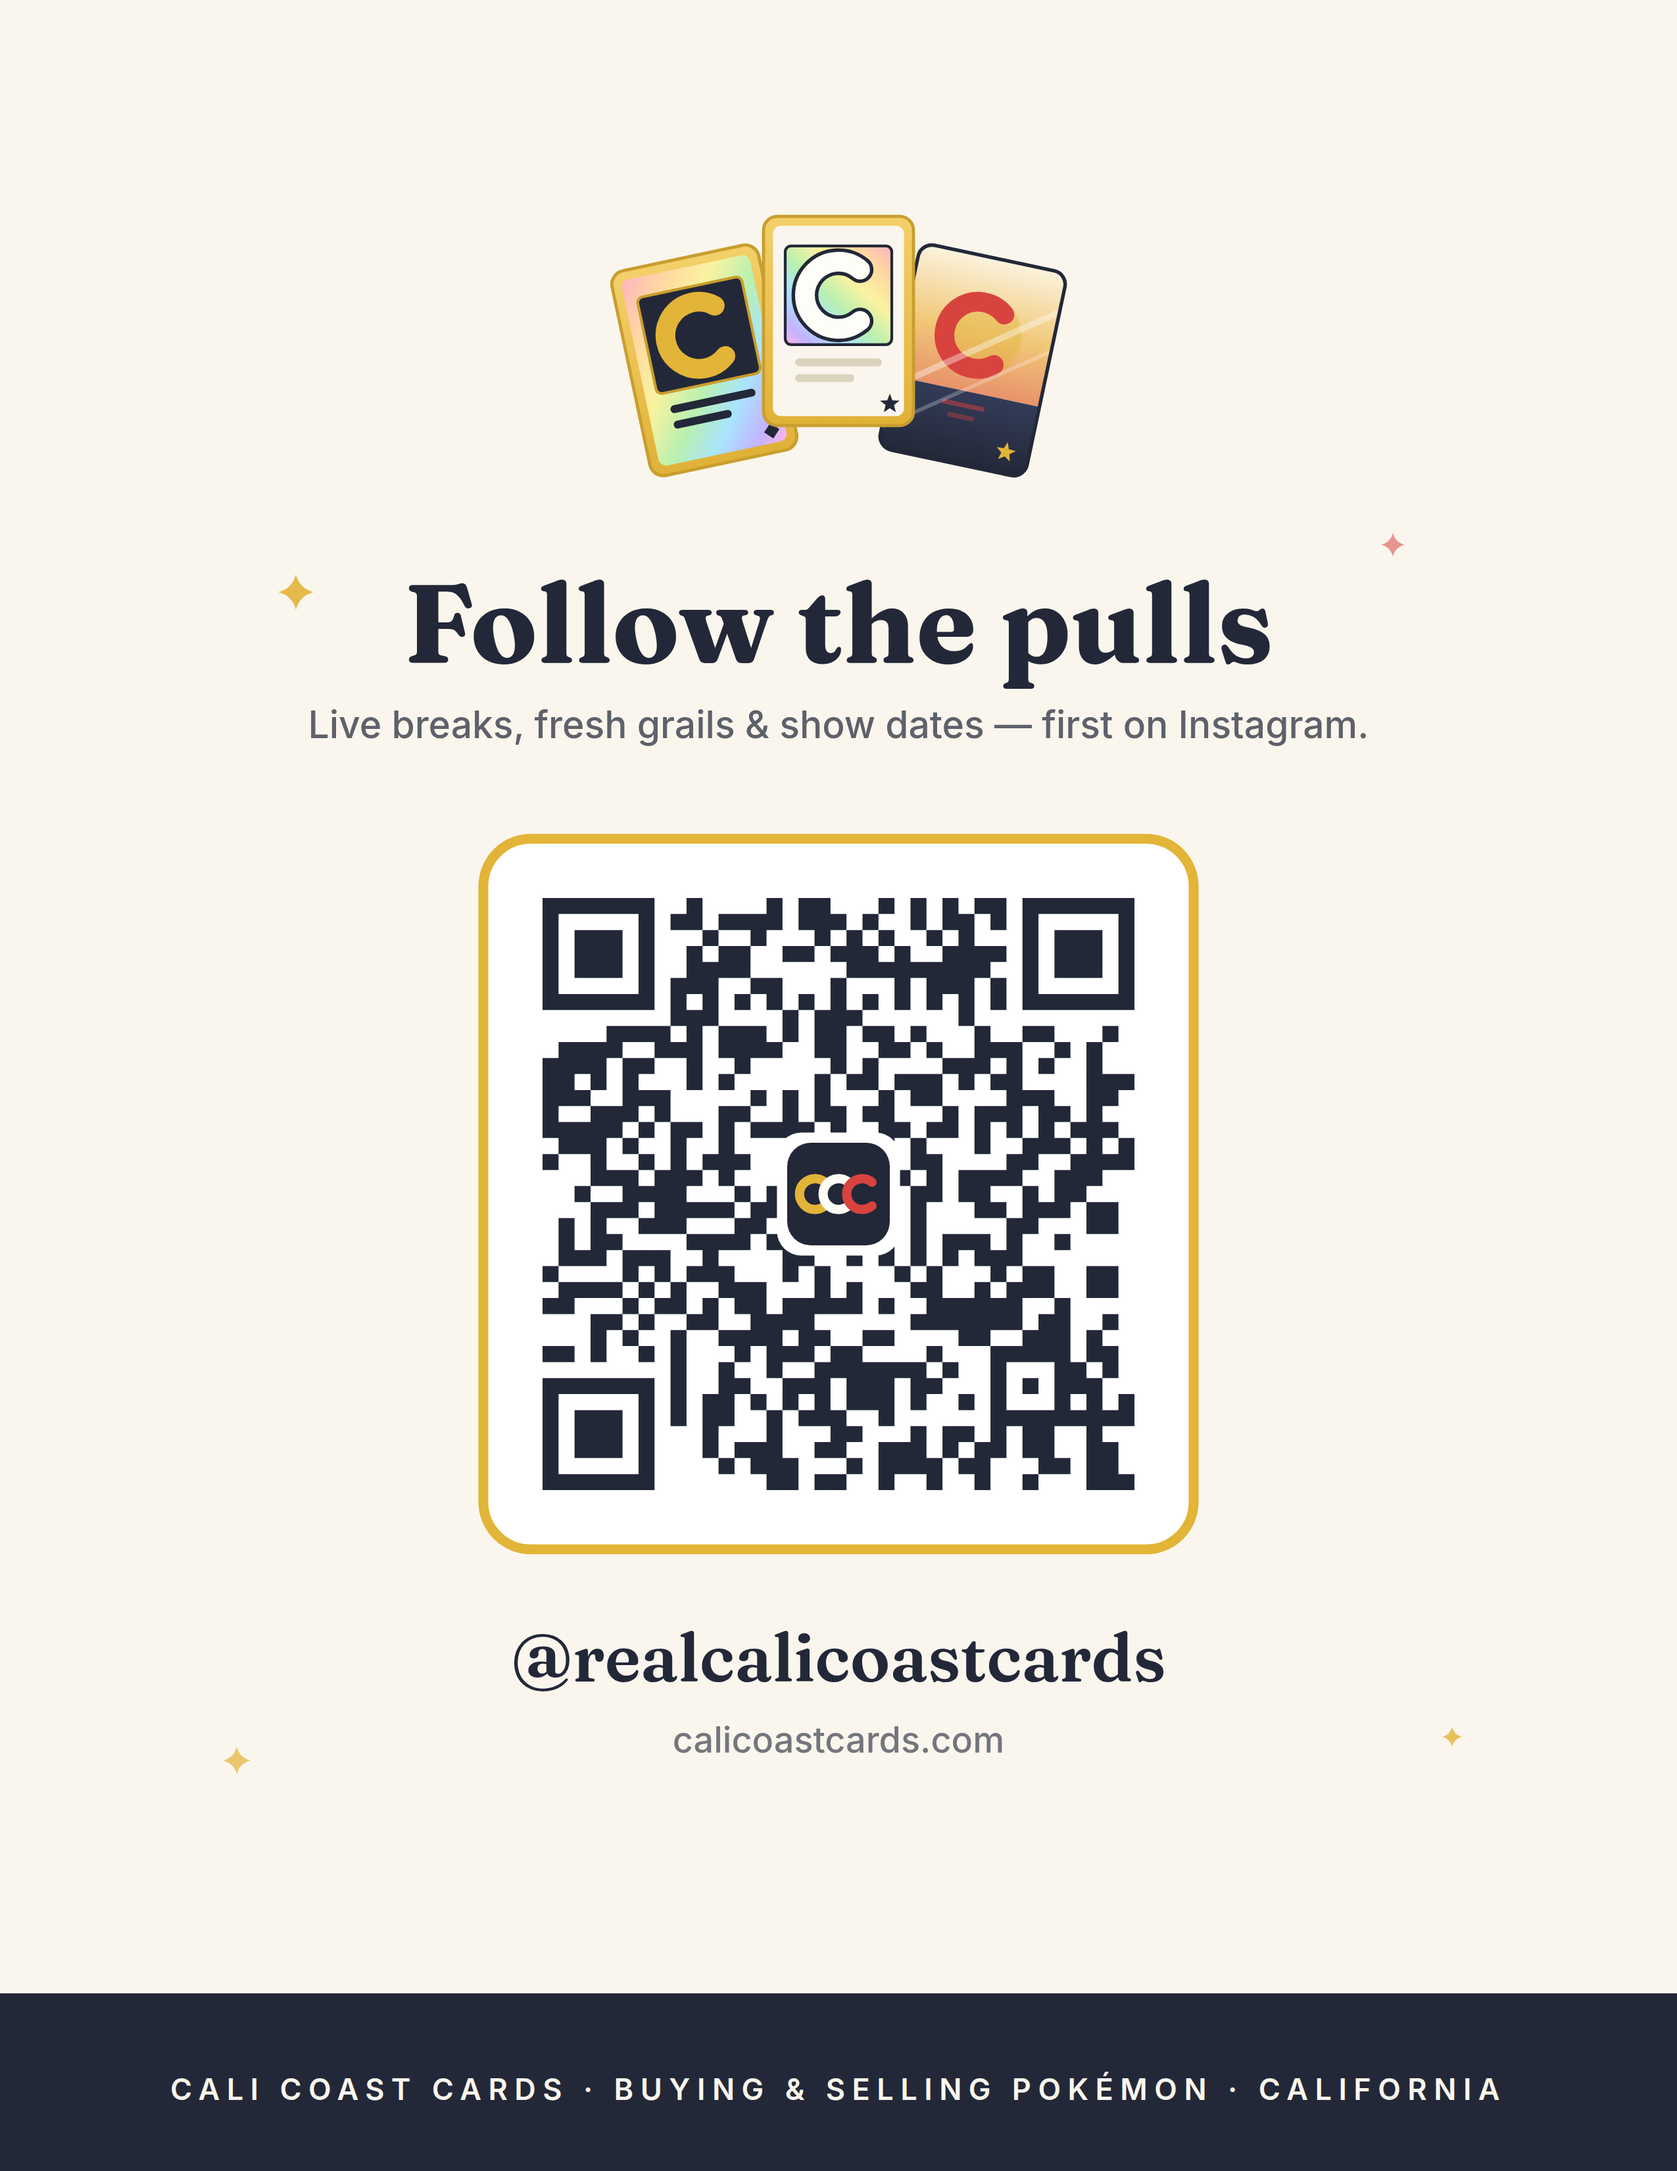
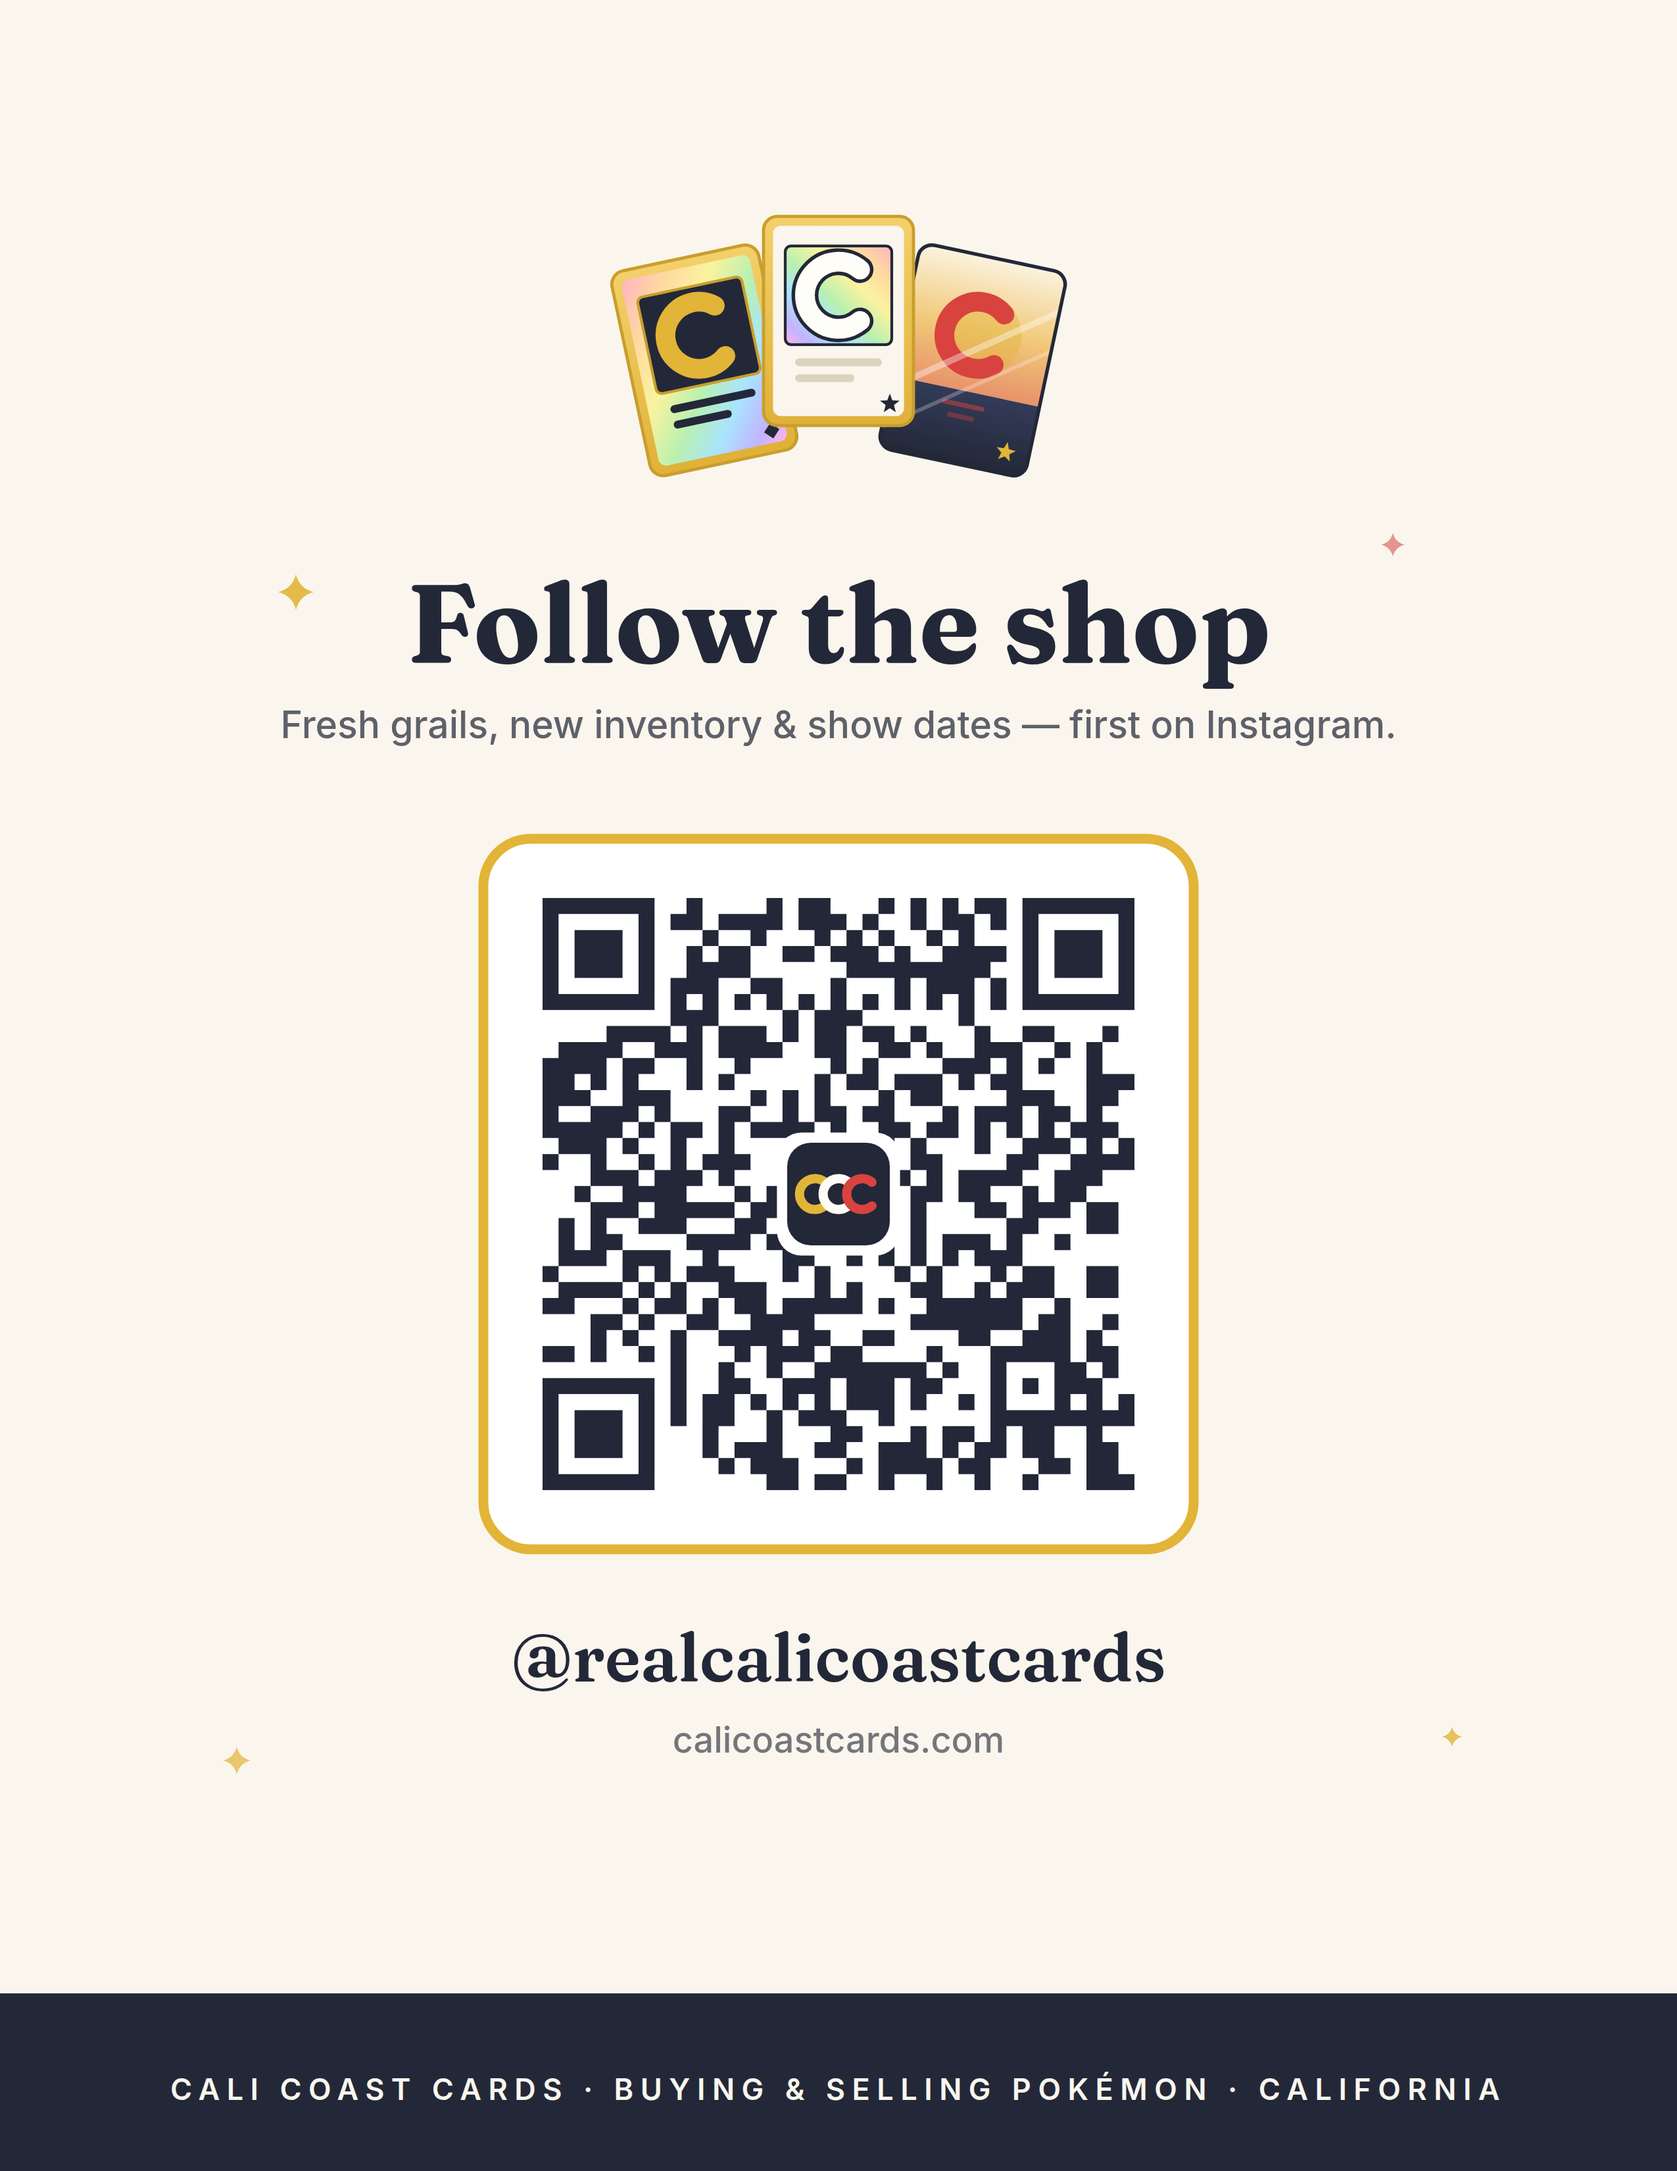
Remove pulls/breaks/rips language — we don't do breaks
Card back now reads 'Scan to follow the shop' with a
singles/slabs/sealed kicker; sign reads 'Follow the shop'; homepage
hero and Whatnot tile now say live auctions.

Claude-Session: https://claude.ai/code/session_011qhPkhG6ZK8KHXgo3yVg1U

Changed region(s): [[0.1859, 0.2497, 0.8365, 0.3433]]

diff --git a/tools/build-cards.js b/tools/build-cards.js
@@ -128,9 +128,9 @@ const back = `<svg xmlns="http://www.w3.org/2000/svg" width="3.625in" height="2.
   ${sparkle(38, 36, 3.2, GOLD, 0.9)}
   ${sparkle(182, 26, 2, "#FAF6ED", 0.7)}
   ${sparkle(152, 186, 2.4, GOLD, 0.6)}
-  <text x="30" y="60" font-family="Inter" font-weight="700" font-size="7.5" letter-spacing="1.8" fill="${GOLD}">LIVE BREAKS · GRAILS · DEALS</text>
+  <text x="30" y="60" font-family="Inter" font-weight="700" font-size="7.5" letter-spacing="1.8" fill="${GOLD}">SINGLES · SLABS · SEALED</text>
   <text x="30" y="88" font-family="Fraunces" font-weight="600" font-size="19" fill="${CREAM}">Scan to follow</text>
-  <text x="30" y="111" font-family="Fraunces" font-weight="600" font-size="19" fill="${CREAM}">the pulls.</text>
+  <text x="30" y="111" font-family="Fraunces" font-weight="600" font-size="19" fill="${CREAM}">the shop.</text>
   <text x="30" y="138" font-family="Inter" font-weight="600" font-size="12.5" fill="${GOLD}">@realcalicoastcards</text>
   <text x="30" y="162" font-family="Inter" font-weight="500" font-size="10" fill="${CREAM}" opacity="0.6">calicoastcards.com</text>
   ${qrBlock(270, 106.25, 106, 130, CREAM, 20)}
@@ -146,8 +146,8 @@ const sign = `<svg xmlns="http://www.w3.org/2000/svg" width="8.5in" height="11in
   ${sparkle(120, 892, 7, GOLD, 0.7)}
   ${sparkle(736, 880, 5, GOLD, 0.8)}
   ${fan(425, 180, 2.0)}
-  <text x="425" y="336" text-anchor="middle" font-family="Fraunces" font-weight="700" font-size="56" fill="${NAVY}">Follow the pulls</text>
-  <text x="425" y="374" text-anchor="middle" font-family="Inter" font-weight="500" font-size="19" fill="${NAVY}" opacity="0.72">Live breaks, fresh grails &amp; show dates — first on Instagram.</text>
+  <text x="425" y="336" text-anchor="middle" font-family="Fraunces" font-weight="700" font-size="56" fill="${NAVY}">Follow the shop</text>
+  <text x="425" y="374" text-anchor="middle" font-family="Inter" font-weight="500" font-size="19" fill="${NAVY}" opacity="0.72">Fresh grails, new inventory &amp; show dates — first on Instagram.</text>
   <rect x="245" y="425" width="360" height="360" rx="24" fill="#FFFFFF" stroke="${GOLD}" stroke-width="5"/>
   ${qrBlock(425, 605, 300, 344, "#FFFFFF", 52)}
   <text x="425" y="852" text-anchor="middle" font-family="Fraunces" font-weight="600" font-size="34" fill="${NAVY}">@realcalicoastcards</text>

diff --git a/index.html b/index.html
@@ -52,7 +52,7 @@
           </div>
           <ul class="hero-trust" aria-label="What we do">
             <li><span class="dot"></span> We buy everything Pokémon — raw, graded, sealed, bulk</li>
-            <li><span class="dot"></span> Live rips &amp; auctions on Whatnot</li>
+            <li><span class="dot"></span> Live auctions on Whatnot</li>
             <li><span class="dot"></span> Catch our booth at California card shows</li>
           </ul>
         </div>
@@ -117,7 +117,7 @@
             <span class="tile-mark" aria-hidden="true">W</span>
             <span class="tile-body">
               <span class="tile-title">Whatnot</span>
-              <span class="tile-sub">Live rips, breaks &amp; auctions</span>
+              <span class="tile-sub">Live auctions &amp; fresh deals</span>
             </span>
             <span class="tile-arrow" aria-hidden="true">→</span>
             <span class="soon-badge">Coming soon</span>

diff --git a/print/business-cards/README.md b/print/business-cards/README.md
@@ -9,7 +9,7 @@ decode correctly at print resolution.
 | File | What it is |
 | --- | --- |
 | `card-front.png` / `.svg` | Front: card-trio mark, wordmark, tagline, IG handle |
-| `card-back.png` / `.svg` | Back: navy, "Scan to follow the pulls", QR → Instagram |
+| `card-back.png` / `.svg` | Back: navy, "Scan to follow the shop", QR → Instagram |
 | `../signs/instagram-qr-sign.png` | 8.5"×11" booth/table sign with a big QR |
 | `../../art/qr-instagram.png` / `.svg` | Standalone QR — drop it on anything |
 
